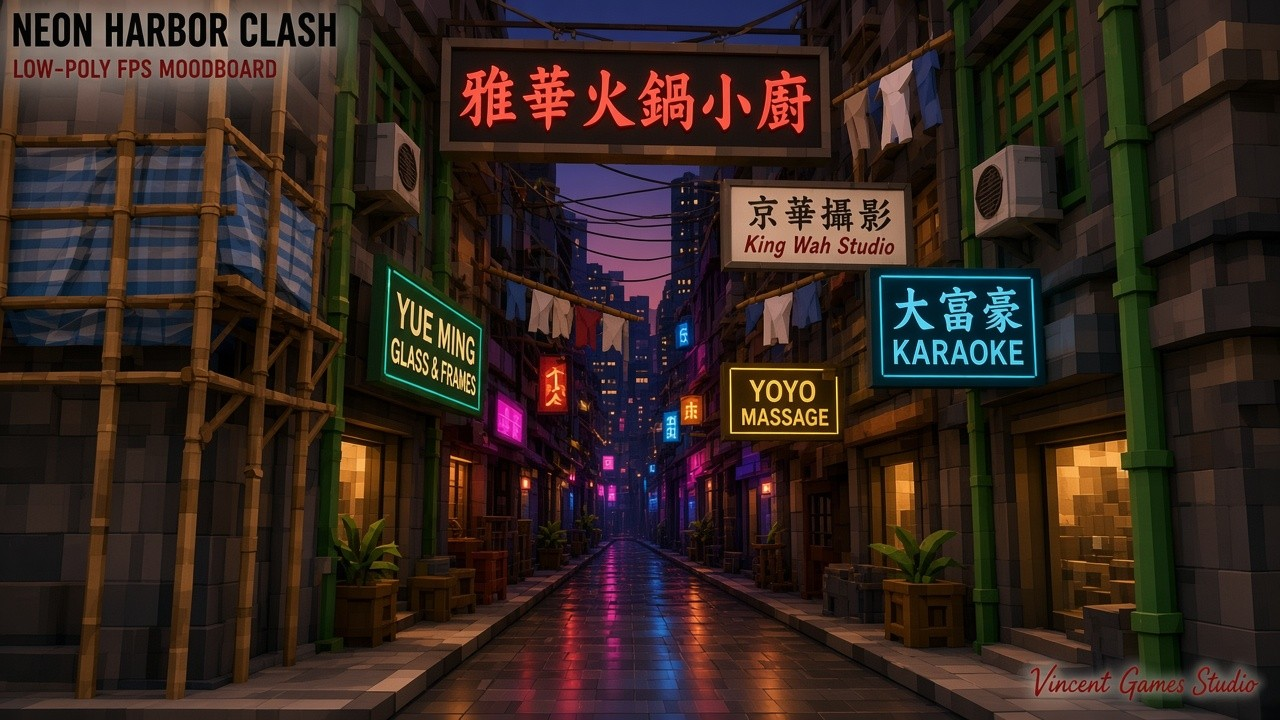
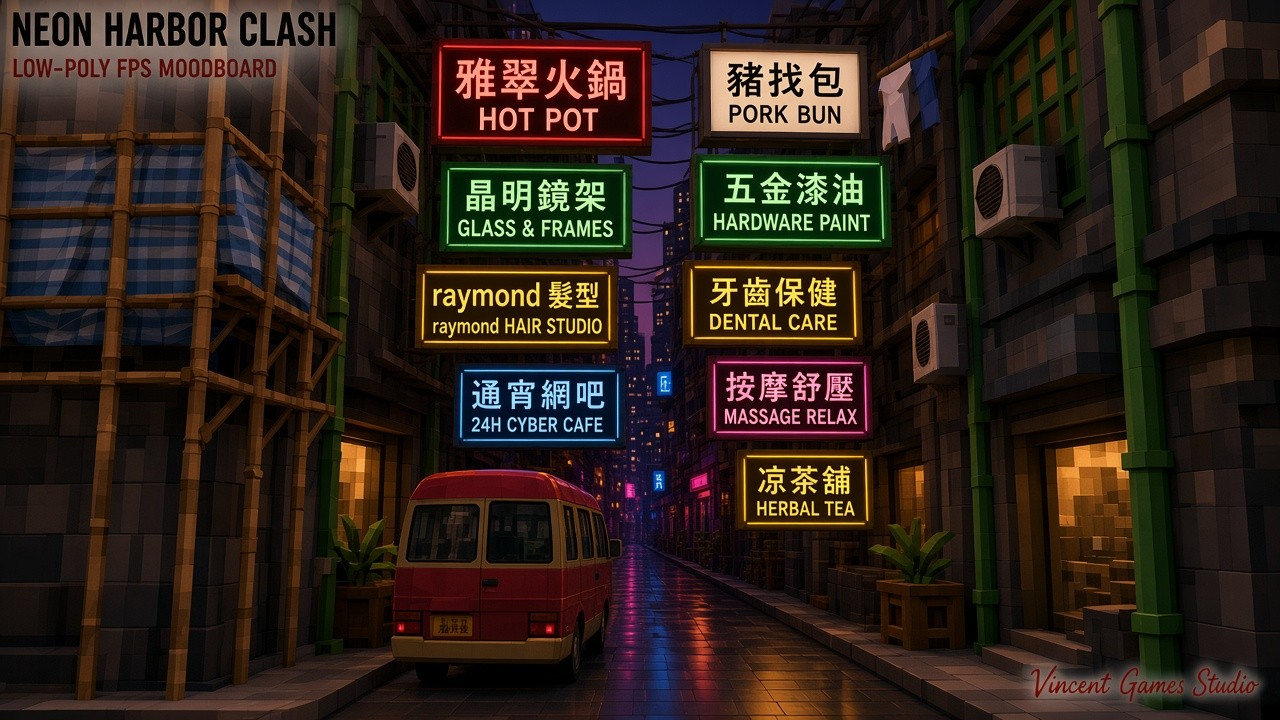
feat(neon-harbor): v4 sign-forest densify (canopy, scaffold, minibuses)
Interlocking soft lightboxes (Translation locked zh-Hant + EN), bamboo
scaffold with blue/white tarp, red/green-roof minibuses + truck cover,
pawn disc, black-gold 涼茶館 boards. Corridor spawns cleared for gameplay.
Smoke PASS. Moodboards v3/v4 + Vincent minibus/canopy refs.

diff --git a/public/demos/neon-harbor/game.js b/public/demos/neon-harbor/game.js
@@ -477,6 +477,122 @@ function addHangSign(group, x, y, z, w, h, text, opts = {}) {
   addBox(group, x, y + h * 0.45, z, Math.max(0.35, w * 0.15), 0.06, 0.06, 0x3a3030, 0x000000, 0, false);
 }
 
+/** HK minibus — red-roof or green-roof cover with collision. */
+function addMinibus(group, x, z, roof = 'red', rotY = 0) {
+  const g = new THREE.Group();
+  g.position.set(x, 0, z);
+  g.rotation.y = rotY;
+  const bodyCol = 0xf2f0ea;
+  const roofCol = roof === 'green' ? 0x1a8f4a : 0xc41828;
+  const body = new THREE.Mesh(
+    new THREE.BoxGeometry(2.1, 1.55, 5.2),
+    new THREE.MeshStandardMaterial({ color: bodyCol, roughness: 0.55, metalness: 0.2 })
+  );
+  body.position.y = 1.05;
+  g.add(body);
+  const rf = new THREE.Mesh(
+    new THREE.BoxGeometry(2.15, 0.22, 5.25),
+    new THREE.MeshStandardMaterial({ color: roofCol, roughness: 0.5, metalness: 0.25, emissive: roofCol, emissiveIntensity: 0.15 })
+  );
+  rf.position.y = 1.95;
+  g.add(rf);
+  neonMats.push(rf.material);
+  const win = new THREE.Mesh(
+    new THREE.BoxGeometry(1.95, 0.7, 4.6),
+    new THREE.MeshStandardMaterial({ color: 0x1a2430, roughness: 0.3, metalness: 0.4 })
+  );
+  win.position.y = 1.35;
+  g.add(win);
+  [[-0.85, -1.6], [0.85, -1.6], [-0.85, 1.6], [0.85, 1.6]].forEach(([wx, wz]) => {
+    const wh = new THREE.Mesh(
+      new THREE.BoxGeometry(0.28, 0.55, 0.7),
+      new THREE.MeshStandardMaterial({ color: 0x111118 })
+    );
+    wh.position.set(wx, 0.35, wz);
+    g.add(wh);
+  });
+  group.add(g);
+  const aligned = Math.abs(rotY % Math.PI) < 0.3 || Math.abs(Math.abs(rotY % Math.PI) - Math.PI) < 0.3;
+  solidBoxes.push(boxSolid(x, 0, z, aligned ? 2.2 : 5.3, 2.1, aligned ? 5.3 : 2.2));
+  return g;
+}
+
+/** Small delivery truck at alley far end. */
+function addSmallTruck(group, x, z, rotY = 0) {
+  const g = new THREE.Group();
+  g.position.set(x, 0, z);
+  g.rotation.y = rotY;
+  const cab = new THREE.Mesh(
+    new THREE.BoxGeometry(1.9, 1.5, 1.6),
+    new THREE.MeshStandardMaterial({ color: 0xd8d0c4, roughness: 0.6 })
+  );
+  cab.position.set(0, 1.0, -1.5);
+  g.add(cab);
+  const bed = new THREE.Mesh(
+    new THREE.BoxGeometry(1.85, 1.1, 2.8),
+    new THREE.MeshStandardMaterial({ color: 0x3a6088, roughness: 0.55 })
+  );
+  bed.position.set(0, 0.9, 0.7);
+  g.add(bed);
+  group.add(g);
+  solidBoxes.push(boxSolid(x, 0, z, 2.0, 1.7, 4.6));
+  return g;
+}
+
+/** Bamboo scaffold + blue/white tarp — soft, leave sight gaps. */
+function addBambooScaffold(group, x, zStart, zEnd, toward = 1) {
+  for (let z = zStart; z <= zEnd; z += 1.6) {
+    addBox(group, x, 0, z, 0.12, 9.5, 0.12, 0xc4a574, 0x000000, 0, false);
+    addBox(group, x + toward * 1.2, 0, z, 0.12, 9.5, 0.12, 0xc4a574, 0x000000, 0, false);
+    for (let y = 1.5; y < 9; y += 1.5) {
+      addBox(group, x + toward * 0.6, y, z, 1.3, 0.08, 0.08, 0xc4a574, 0x000000, 0, false);
+    }
+  }
+  for (let y = 2; y < 9; y += 2) {
+    addBox(group, x, y, (zStart + zEnd) / 2, 0.08, 0.08, zEnd - zStart, 0xc4a574, 0x000000, 0, false);
+    addBox(group, x + toward * 1.2, y, (zStart + zEnd) / 2, 0.08, 0.08, zEnd - zStart, 0xc4a574, 0x000000, 0, false);
+  }
+  let bay = 0;
+  for (let z = zStart; z < zEnd - 0.5; z += 1.6) {
+    if (bay % 2 === 0) {
+      const stripe = bay % 4 === 0 ? 0x2a6db0 : 0xf0f4f8;
+      addBox(group, x + toward * 0.6, 3.5, z + 0.8, 1.15, 3.2, 1.4, stripe, 0x000000, 0, false);
+      addBox(group, x + toward * 0.6, 7.0, z + 0.8, 1.15, 2.0, 1.4, bay % 4 === 0 ? 0xf0f4f8 : 0x2a6db0, 0x000000, 0, false);
+    }
+    bay++;
+  }
+}
+
+/** Circular pawn-shop style sign (bat-coin feel) — fictional 金蝠當. */
+function addPawnSign(group, x, y, z) {
+  const c = document.createElement('canvas');
+  c.width = 256; c.height = 256;
+  const ctx = c.getContext('2d');
+  ctx.fillStyle = '#b01028';
+  ctx.beginPath(); ctx.arc(128, 128, 120, 0, Math.PI * 2); ctx.fill();
+  ctx.fillStyle = '#ffe8a0';
+  ctx.beginPath(); ctx.arc(128, 118, 48, 0, Math.PI * 2); ctx.fill();
+  ctx.fillStyle = '#b01028';
+  ctx.beginPath(); ctx.arc(128, 118, 22, 0, Math.PI * 2); ctx.fill();
+  ctx.strokeStyle = '#ffe8a0'; ctx.lineWidth = 6;
+  ctx.beginPath(); ctx.arc(128, 160, 55, Math.PI * 0.15, Math.PI * 0.85); ctx.stroke();
+  ctx.font = 'bold 28px "Noto Sans TC",sans-serif';
+  ctx.textAlign = 'center'; ctx.fillStyle = '#ffe8a0';
+  ctx.fillText('金蝠當', 128, 230);
+  const tex = new THREE.CanvasTexture(c);
+  if (THREE.SRGBColorSpace) tex.colorSpace = THREE.SRGBColorSpace;
+  const mat = new THREE.MeshStandardMaterial({
+    map: tex, color: 0xffffff, emissive: 0xff2d3a, emissiveIntensity: 1.4, roughness: 0.5,
+  });
+  neonMats.push(mat);
+  const mesh = new THREE.Mesh(new THREE.CylinderGeometry(0.85, 0.85, 0.14, 24), mat);
+  mesh.rotation.x = Math.PI / 2;
+  mesh.position.set(x, y, z);
+  group.add(mesh);
+  return mesh;
+}
+
+
 // Locked zh-Hant sign copy (Translation) — fictional / non-trademark
 const ZH_VERT_NEON = '富龍大茶樓';
 const ZH_WALL = ['罐頭食品', '名茶', '茶莊禮品', '乾餅菓'];
@@ -592,9 +708,10 @@ function buildNeonTemple(root) {
 
 function buildNeonSignStreet(root) {
   // 霓虹招牌街 — densified Tong Lau alley (綠窗/冷氣/密霓虹/晾衫/黃的)
+  // keep spawns in central walk corridor (signs soft-only; avoid arcade pillars)
   spawnPoints = [
-    [0, 0, 0], [6, 0, 10], [-6, 0, 10], [6, 0, -10],
-    [-6, 0, -10], [0, 0, 16], [0, 0, -16], [4, 0, 4],
+    [0, 0, 0], [1.2, 0, 8], [-1.2, 0, 8], [1.2, 0, -8],
+    [-1.2, 0, -8], [0, 0, 12], [0, 0, -12], [0.8, 0, 4],
   ];
   const ground = new THREE.Mesh(
     new THREE.PlaneGeometry(48, 52),
@@ -689,18 +806,18 @@ function buildNeonSignStreet(root) {
   }
 
   // mid-alley cover: dumpsters / planters + 紅膠凳 + 垃圾桶
-  [[-2.5, 6], [2.5, -6], [0, 12], [0, -12], [-2.2, -2], [2.2, 2]].forEach(([x, z], i) => {
-    addBox(root, x, 0, z, 1.6, 1.1 + (i % 2) * 0.4, 1.4, 0x1c2430, 0x000000, 0, true);
+  [[-2.8, 6], [2.8, -6], [-2.6, 12], [2.6, -12], [-2.5, -2], [2.5, 2]].forEach(([x, z], i) => {
+    addBox(root, x, 0, z, 1.35, 1.1 + (i % 2) * 0.4, 1.2, 0x1c2430, 0x000000, 0, true);
     if (i % 2 === 0) addBox(root, x, 1.15, z, 1.5, 0.08, 1.3, 0x101018, i % 4 ? 0xffd36a : 0xff2d9b, 1.4, false);
   });
-  [[-1.8, 4], [1.6, -3.5], [-1.2, 9], [1.4, -9], [0.8, 1.5], [-0.9, -5]].forEach(([x, z], i) => {
-    addRedStool(root, x, z, i % 3 !== 0);
+  [[-2.8, 4], [2.6, -3.5], [-2.6, 9], [2.5, -9], [2.4, 1.5], [-2.5, -5]].forEach(([x, z], i) => {
+    addRedStool(root, x, z, false); // soft clutter — corridor stay shootable
   });
   [[-2.8, 8], [2.6, -8], [-2.4, -14], [2.2, 14]].forEach(([x, z], i) => addTrashBin(root, x, z, i));
 
   // 黃的 — yellow HK taxi cover (collision)
-  addYellowTaxi(root, 2.4, -15.5, 0);
-  addYellowTaxi(root, -2.6, 15.2, Math.PI);
+  addYellowTaxi(root, 3.2, -17.5, 0);
+  addYellowTaxi(root, -3.2, 17.2, Math.PI);
 
   // === HANGING SIGN CANYON (day ref: overlapping boards fill upper 2/3) ===
   const hangStyles = [
@@ -743,9 +860,9 @@ function buildNeonSignStreet(root) {
     addACUnit(root, 6.1, 3.0 + ((i + 1) % 3) * 1.4, i * 5.5 + 0.8, -1);
   }
   // shopfront clutter: crates, stool clusters, menu boards
-  [[-3.2, 3], [3.0, -4], [-3.4, -7], [3.2, 7], [-3.0, 11], [2.8, -11]].forEach(([x, z], i) => {
-    addBox(root, x, 0, z, 0.9, 0.7 + (i % 2) * 0.3, 0.7, 0x5a4030, 0x000000, 0, true);
-    addRedStool(root, x + 0.7, z + 0.4, true);
+  [[-3.6, 3], [3.6, -4], [-3.8, -7], [3.8, 7], [-3.6, 11], [3.5, -11]].forEach(([x, z], i) => {
+    addBox(root, x, 0, z, 0.85, 0.7 + (i % 2) * 0.3, 0.65, 0x5a4030, 0x000000, 0, true);
+    addRedStool(root, x + (x > 0 ? 0.55 : -0.55), z + 0.35, i % 2 === 0);
     if (i % 2 === 0) {
       const bt = ZH_BANNERS[i % ZH_BANNERS.length];
       addZhPanel(root, x, 1.0, z, 0.9, 0.55, 0.08, bt, {
@@ -753,6 +870,91 @@ function buildNeonSignStreet(root) {
       });
     }
   });
+
+  // === V4 SIGN FOREST (banner canopy / metal arms / minibuses / scaffold) ===
+  const ZH_LIGHTBOX = [
+    '雅翠火鍋', '晶明鏡架', 'raymond 髮型', '豬扒包 $26', '五金漆油',
+    '牙齒保健', '通宵網吧', '按摩舒壓', '凉茶舖', '富龍大茶樓', '公合記食家',
+    '喜筵壽宴', '涼茶館', '金蝠當舖',
+  ];
+  const ZH_EN = [
+    'JADE HOTPOT', 'CRYSTAL FRAMES', 'RAYMOND CUTS', 'PORK BUN $26', 'HARDWARE',
+    'DENTAL CARE', 'ALL-NITE NET', 'FOOT SPA', 'HERBAL TEA', 'FU LUNG TEA', 'GUNG HOP KEE',
+  ];
+  const lbStyles = [
+    { bg: '#b01028', fg: '#fff4d0', em: 0xff2d3a },
+    { bg: '#0d5c3a', fg: '#ffe8a0', em: 0x40f080 },
+    { bg: '#c47800', fg: '#1a1a22', em: 0xffa040 },
+    { bg: '#f0e8d8', fg: '#1a5c3a', em: 0x40f080 },
+    { bg: '#0a3a7a', fg: '#ffffff', em: 0x2080ff },
+    { bg: '#ff4dc8', fg: '#ffffff', em: 0xff2d9b },
+    { bg: '#ffe060', fg: '#8b1515', em: 0xffd36a },
+    { bg: '#111110', fg: '#ffd36a', em: 0xffd36a },
+  ];
+  // interlocking protruding lightboxes — sky slit only (ALL soft / non-solid)
+  for (let side = 0; side < 2; side++) {
+    const toward = side === 0 ? 1 : -1;
+    const baseX = side === 0 ? -4.4 : 4.4;
+    for (let tier = 0; tier < 7; tier++) {
+      for (let col = 0; col < 12; col++) {
+        const z = -20 + col * 3.4 + (tier % 2) * 0.5 + side * 0.15;
+        const y = 2.6 + tier * 0.78 + ((col + side) % 3) * 0.1;
+        const st = lbStyles[(col + tier * 3 + side) % lbStyles.length];
+        const txt = ZH_LIGHTBOX[(col + tier + side * 5) % ZH_LIGHTBOX.length];
+        const w = 1.3 + (col % 4) * 0.4;
+        const h = 0.38 + (tier % 2) * 0.16;
+        const x = baseX + toward * (0.2 + (tier % 4) * 0.32 + (col % 3) * 0.1);
+        addHangSign(root, x, y, z, w, h, txt, {
+          bg: st.bg, fg: st.fg, emissive: st.em, emitInt: 1.25 + (tier % 3) * 0.3,
+        });
+        // metal arm toward façade
+        addBox(root, x - toward * (w * 0.35 + 0.4), y + h * 0.4, z, 0.9, 0.05, 0.05, 0x4a5058, 0x000000, 0, false);
+        if ((col + tier) % 4 === 0) {
+          addHangSign(root, x, y - 0.3, z + 0.04, w * 0.85, 0.26, ZH_EN[(col + tier) % ZH_EN.length], {
+            bg: '#0a0a12', fg: '#e8e0d0', emissive: st.em, emitInt: 0.85,
+          });
+        }
+      }
+    }
+  }
+  // hero bilingual row (v4 board order)
+  const heroRow = [
+    [-3.2, 6.2, -4, '雅翠火鍋', '#b01028', '#fff4d0', 0xff2d3a],
+    [3.2, 6.2, -4, '豬扒包 $26', '#f0e8d8', '#8b1515', 0x401010],
+    [-3.2, 5.3, -2, '晶明鏡架', '#0d5c3a', '#ffe8a0', 0x40f080],
+    [3.2, 5.3, -2, '五金漆油', '#0d5c3a', '#ffffff', 0x40f080],
+    [-3.2, 4.4, 0, 'raymond 髮型', '#c47800', '#1a1a22', 0xffa040],
+    [3.2, 4.4, 0, '牙齒保健', '#ffe060', '#1a5c3a', 0xffd36a],
+    [-3.2, 3.5, 2, '通宵網吧', '#0a3a7a', '#ffffff', 0x2080ff],
+    [3.2, 3.5, 2, '按摩舒壓', '#ff4dc8', '#ffffff', 0xff2d9b],
+    [3.2, 2.7, 4, '凉茶舖', '#ffe060', '#8b1515', 0xffd36a],
+  ];
+  heroRow.forEach(([x, y, z, txt, bg, fg, em]) => {
+    addHangSign(root, x, y, z, 2.4, 0.55, txt, { bg, fg, emissive: em, emitInt: 2.0 });
+  });
+  addHangSign(root, -4.0, 4.8, 8, 2.2, 0.65, '涼茶館', {
+    bg: '#111110', fg: '#ffd36a', emissive: 0xffd36a, emitInt: 2.1,
+  });
+  addPawnSign(root, -4.5, 5.6, 12);
+  addHangSign(root, -4.5, 4.3, 12, 1.5, 0.38, '金蝠當舖', {
+    bg: '#b01028', fg: '#ffe8a0', emissive: 0xff2d3a, emitInt: 1.5,
+  });
+
+  // bamboo scaffold + blue/white tarp (left) — soft sight gaps
+  addBambooScaffold(root, -7.0, -12, 6, 1);
+
+  // yellow price boards
+  [[-3.5, 1.5], [3.3, -2], [-3.3, 5], [3.1, 8]].forEach(([x, z]) => {
+    addZhPanel(root, x, 1.2, z, 0.7, 0.9, 0.06, '豬扒包 $26', {
+      vertical: true, bg: '#ffe060', fg: '#8b1515', emissive: 0xffd36a, emitInt: 0.55,
+    });
+  });
+
+  // red-roof + green-roof minibuses at alley mouths (collision cover)
+  addMinibus(root, 3.4, -20.5, 'red', 0);
+  addMinibus(root, -3.4, 20.2, 'green', Math.PI);
+  addSmallTruck(root, 3.0, 22.0, Math.PI / 2);
+
 
     // end walls
   addBox(root, 0, 0, 24, 28, 6, 1.2, 0x100c18, 0xff2d9b, 0.35, true);
